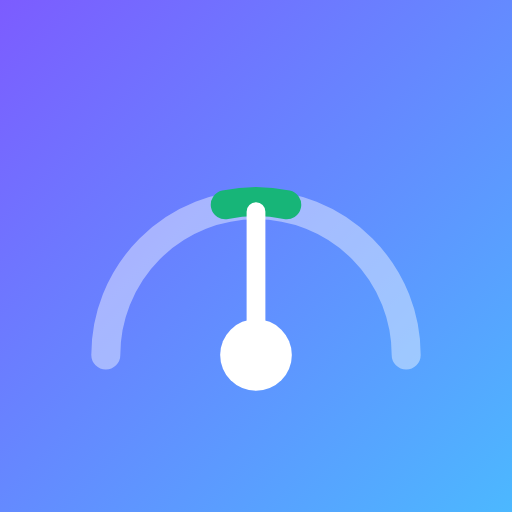
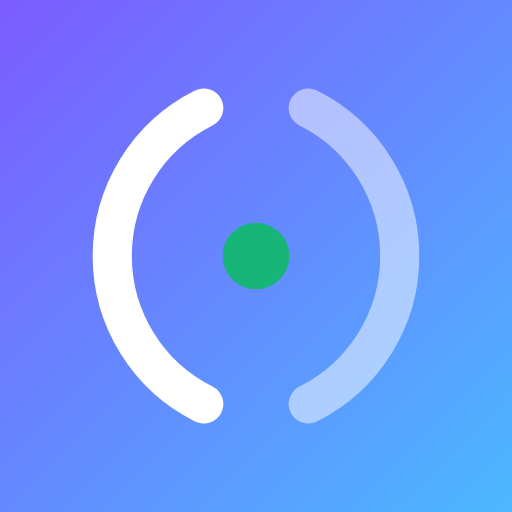
Wear the Duet mark: two arcs, and the note they agree on
The icons, the maskable variant, the share image and the wordmark inside
the app all carry it now, and the violin emoji that stood between the two
words is gone — it was a picture of one instrument on an app that had just
stopped being about one instrument.

Rendering it turned up that the maskable variant has never actually been
padded. A stray */ left a comment closed early, so the prose after it was
parsed as a selector and swallowed the scale rule underneath — the two
files came out byte-identical, which is the only reason it showed. Android
has been cropping the full-bleed art all along.

Changed region(s): [[0.1562, 0.1562, 0.8438, 0.8438]]

diff --git a/index.html b/index.html
@@ -1550,7 +1550,16 @@
       background-clip: text;
       color: transparent;
     }
-    #welcome-title span { -webkit-text-fill-color: initial; color: initial; font-size: 1.15rem; }
+    /* The mark stands in for a letter between the two words, so it is sized
+       from the type around it and sits on the same optical line. It paints in
+       the ink colour, not the gradient the words wear. */
+    h1 .mark, #welcome-title .mark {
+      width: 1em; height: 1em;
+      vertical-align: -0.14em;
+      margin: 0 0.08em;
+      color: var(--primary);
+    }
+    #welcome-title .mark { color: #6d4ef6; }
     .welcome-lead { color: var(--muted); font-size: 0.9rem; line-height: 1.55; margin: 0.6rem 0 1.2rem; }
     .welcome-step { text-align: left; margin-bottom: 1.2rem; }
     .welcome-tabs {
@@ -1669,7 +1678,7 @@
        instrument has ever been chosen, so it never flashes on a return visit. -->
   <div id="welcome" hidden>
     <div id="welcome-card" role="dialog" aria-labelledby="welcome-title" aria-modal="true">
-      <h2 id="welcome-title">practice <span aria-hidden="true">🎻</span> partner</h2>
+      <h2 id="welcome-title">practice <svg class="mark" viewBox="0 0 100 100" aria-hidden="true"><path d="M38 16 A 38 38 0 0 0 38 84" fill="none" stroke="currentColor" stroke-width="9" stroke-linecap="round"/><path d="M62 16 A 38 38 0 0 1 62 84" fill="none" stroke="currentColor" stroke-opacity="0.45" stroke-width="9" stroke-linecap="round"/><circle cx="50" cy="50" r="7.5" fill="var(--good)"/></svg> partner</h2>
       <p class="welcome-lead">It listens while you practise and tells you what actually
       happened — which notes ran sharp or flat, where the tempo moved, and how cleanly
       you land after a leap.</p>
@@ -1693,7 +1702,7 @@
     </div>
   </div>
   <header>
-    <h1>practice <span>🎻</span> partner</h1>
+    <h1>practice <svg class="mark" viewBox="0 0 100 100" aria-hidden="true"><path d="M38 16 A 38 38 0 0 0 38 84" fill="none" stroke="currentColor" stroke-width="9" stroke-linecap="round"/><path d="M62 16 A 38 38 0 0 1 62 84" fill="none" stroke="currentColor" stroke-opacity="0.45" stroke-width="9" stroke-linecap="round"/><circle cx="50" cy="50" r="7.5" fill="var(--good)"/></svg> partner</h1>
     <button id="settings-btn" type="button" aria-label="Settings">
       <svg viewBox="0 0 24 24" fill="none" stroke="currentColor" stroke-width="1.7" stroke-linecap="round" stroke-linejoin="round">
         <path d="M12.22 2h-.44a2 2 0 0 0-2 2v.18a2 2 0 0 1-1 1.73l-.43.25a2 2 0 0 1-2 0l-.15-.08a2 2 0 0 0-2.73.73l-.22.38a2 2 0 0 0 .73 2.73l.15.1a2 2 0 0 1 1 1.72v.51a2 2 0 0 1-1 1.74l-.15.09a2 2 0 0 0-.73 2.73l.22.38a2 2 0 0 0 2.73.73l.15-.08a2 2 0 0 1 2 0l.43.25a2 2 0 0 1 1 1.73V20a2 2 0 0 0 2 2h.44a2 2 0 0 0 2-2v-.18a2 2 0 0 1 1-1.73l.43-.25a2 2 0 0 1 2 0l.15.08a2 2 0 0 0 2.73-.73l.22-.39a2 2 0 0 0-.73-2.73l-.15-.08a2 2 0 0 1-1-1.74v-.5a2 2 0 0 1 1-1.74l.15-.09a2 2 0 0 0 .73-2.73l-.22-.38a2 2 0 0 0-2.73-.73l-.15.08a2 2 0 0 1-2 0l-.43-.25a2 2 0 0 1-1-1.73V4a2 2 0 0 0-2-2z" />

diff --git a/tools/icon.html b/tools/icon.html
@@ -27,11 +27,10 @@
     display: grid;
     place-items: center;
   }
-  /* Android crops to a circle inscribed in the square; keep the gauge inside
-     the inner 80% or the needle loses its tip on a Pixel. */
-     The gauge is only ~59% of its own viewBox wide to begin with, so it clears
-     the safe circle almost unscaled; 0.85 keeps a margin without shrinking the
-     art to a dot inside the mask. */
+  /* Android crops to a circle inscribed in the square, so the mark has to sit
+     inside the inner 80% or its edges are cut on a Pixel. The mark is only
+     about 59% of its own viewBox wide to begin with and clears that circle
+     almost unscaled; 0.85 keeps a margin without shrinking it to a dot. */
   body[data-v="maskable"] .gauge { transform: scale(0.85); }
 
   body[data-v="og"] { background: #eeebfa; }
@@ -51,20 +50,20 @@
 </head>
 <body>
   <div class="tile">
+    <!-- Duet: two arcs turned toward each other, meeting on the note they
+         agree about. One of them is you and one is the thing listening — the
+         only mark of the six that would not have suited a plain tuner, which
+         is the whole reason the app has a different name now. -->
     <svg class="gauge" viewBox="0 0 300 300" width="512" height="512" aria-hidden="true">
-      <!-- dial -->
-      <path d="M 62 208 A 88 88 0 0 1 238 208" fill="none"
-            stroke="rgba(255,255,255,0.42)" stroke-width="17" stroke-linecap="round" />
-      <!-- the in-tune band, where the needle is pointing -->
-      <path d="M 132 120 A 88 88 0 0 1 168 120" fill="none"
-            stroke="#17b578" stroke-width="17" stroke-linecap="round" />
-      <!-- needle, pivoting from the hub -->
-      <line x1="150" y1="208" x2="150" y2="124" stroke="#fff" stroke-width="11" stroke-linecap="round" />
-      <circle cx="150" cy="208" r="21" fill="#fff" />
+      <path d="M114 48 A 114 114 0 0 0 114 252" fill="none"
+            stroke="#fff" stroke-width="27" stroke-linecap="round" />
+      <path d="M186 48 A 114 114 0 0 1 186 252" fill="none"
+            stroke="rgba(255,255,255,0.5)" stroke-width="27" stroke-linecap="round" />
+      <circle cx="150" cy="150" r="23" fill="#17b578" />
     </svg>
     <div class="words" hidden>
       <h1>Practice Partner</h1>
-      <p>A tuner that remembers what you played.</p>
+      <p>It listens while you play.</p>
     </div>
   </div>
 <script>
